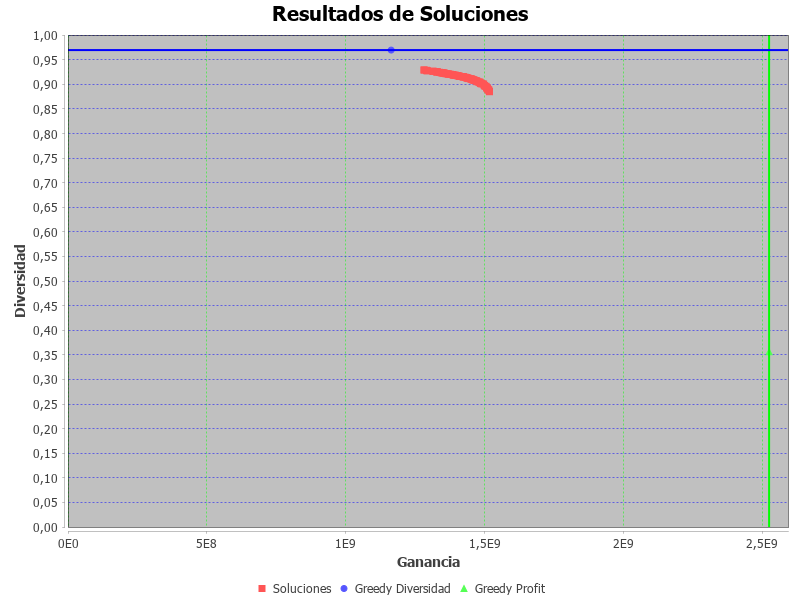
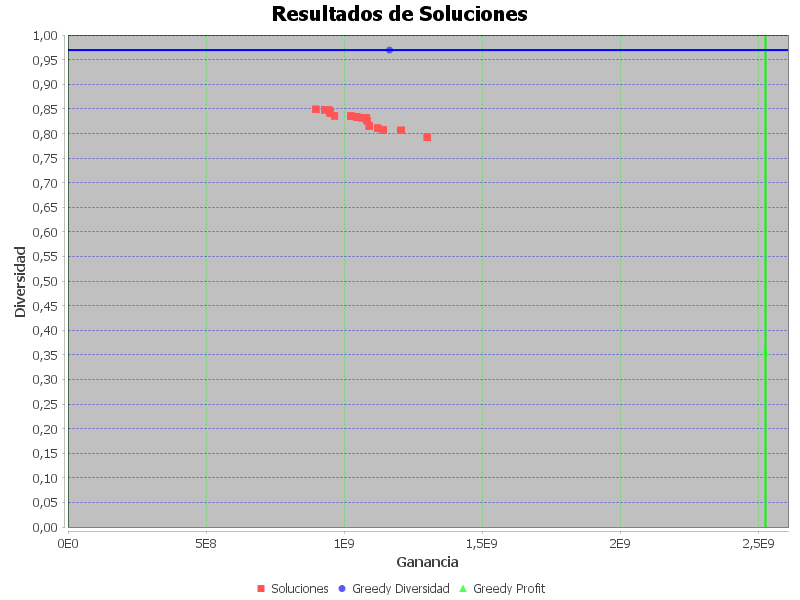
Ahora no es necesario hardcodear el cultivo 0 de Descanso, ya viene integrado :)

diff --git a/src/main/java/rotacionCultivos/Main.java b/src/main/java/rotacionCultivos/Main.java
@@ -22,6 +22,8 @@ import java.io.FileWriter;
 import java.io.IOException;
 import java.util.Arrays;
 import java.util.List;
+import java.util.stream.Collectors;
+import java.util.stream.Stream;
 
 public class Main extends AbstractAlgorithmRunner {
 	public static void main(String[] args) {
@@ -151,17 +153,36 @@ public class Main extends AbstractAlgorithmRunner {
             int cantParcelas = Integer.parseInt(root.getElementsByTagName("cantParcelas").item(0).getTextContent());
             int cantFilas = Integer.parseInt(root.getElementsByTagName("cantFilas").item(0).getTextContent());
             int cantSemestres = Integer.parseInt(root.getElementsByTagName("cantSemestres").item(0).getTextContent());
-            int cantCultivos = Integer.parseInt(root.getElementsByTagName("cantCultivos").item(0).getTextContent());
+            int cantCultivos = Integer.parseInt(root.getElementsByTagName("cantCultivos").item(0).getTextContent()) + 1; // Se agrega 1 para contabilizar la opción de no plantar, es decir: "Descanso".
 
             double[] areaParcelas = parseArray(root.getElementsByTagName("areaParcelas").item(0).getTextContent());
-            String[] nombreCultivo = parseArrayString(root.getElementsByTagName("nombreCultivo").item(0).getTextContent());
-            double[] rendimientoCultivoChico = parseArray(root.getElementsByTagName("rendimientoCultivoChico").item(0).getTextContent());
-            double[] rendimientoCultivoMediano = parseArray(root.getElementsByTagName("rendimientoCultivoMediano").item(0).getTextContent());
-            double[] rendimientoCultivoGrande = parseArray(root.getElementsByTagName("rendimientoCultivoGrande").item(0).getTextContent());
-            double[] precioCultivo = parseArray(root.getElementsByTagName("precioCultivo").item(0).getTextContent());
-            double[] costoMantCultivo = parseArray(root.getElementsByTagName("costoMantCultivo").item(0).getTextContent());
-            char[] temporadaCultivo = parseCharArray(root.getElementsByTagName("temporadaCultivo").item(0).getTextContent());
-
+            String[] nombreCultivo = Stream.concat(
+                    Stream.of("Descanso"),  // el primer cultivo (0) es 'Descanso'
+                    Arrays.stream(parseArrayString(root.getElementsByTagName("nombreCultivo").item(0).getTextContent())) 
+                ).toArray(String[]::new);
+            double[] rendimientoCultivoChico = Stream.concat(
+            	    Stream.of(0.0), Arrays.stream(parseArray(root.getElementsByTagName("rendimientoCultivoChico").item(0).getTextContent())).boxed()
+            	).mapToDouble(Double::doubleValue).toArray();
+            double[] rendimientoCultivoMediano = Stream.concat(
+            	    Stream.of(0.0), Arrays.stream(parseArray(root.getElementsByTagName("rendimientoCultivoMediano").item(0).getTextContent())).boxed()
+            	).mapToDouble(Double::doubleValue).toArray();
+            double[] rendimientoCultivoGrande = Stream.concat(
+            	    Stream.of(0.0), Arrays.stream(parseArray(root.getElementsByTagName("rendimientoCultivoGrande").item(0).getTextContent())).boxed()
+            	).mapToDouble(Double::doubleValue).toArray();
+            double[] precioCultivo = Stream.concat(
+            	    Stream.of(0.0), Arrays.stream(parseArray(root.getElementsByTagName("precioCultivo").item(0).getTextContent())).boxed()
+            	).mapToDouble(Double::doubleValue).toArray();
+            double[] costoMantCultivo = Stream.concat(
+            	    Stream.of(0.0), Arrays.stream(parseArray(root.getElementsByTagName("costoMantCultivo").item(0).getTextContent())).boxed()
+            	).mapToDouble(Double::doubleValue).toArray();
+            char[] temporadaCultivo = Stream.concat(
+                    Stream.of('A'),
+                    new String(parseCharArray(root.getElementsByTagName("temporadaCultivo").item(0).getTextContent())).chars()
+                        .mapToObj(c -> (char) c) 
+                ).map(Object::toString) 
+                .collect(Collectors.joining()) 
+                .toCharArray();
+            
             return new AgriculturalData(cantParcelas, cantFilas, cantSemestres, cantCultivos, areaParcelas, nombreCultivo, rendimientoCultivoChico, rendimientoCultivoMediano, rendimientoCultivoGrande, precioCultivo, costoMantCultivo, temporadaCultivo);
 
         } catch (Exception e) {
